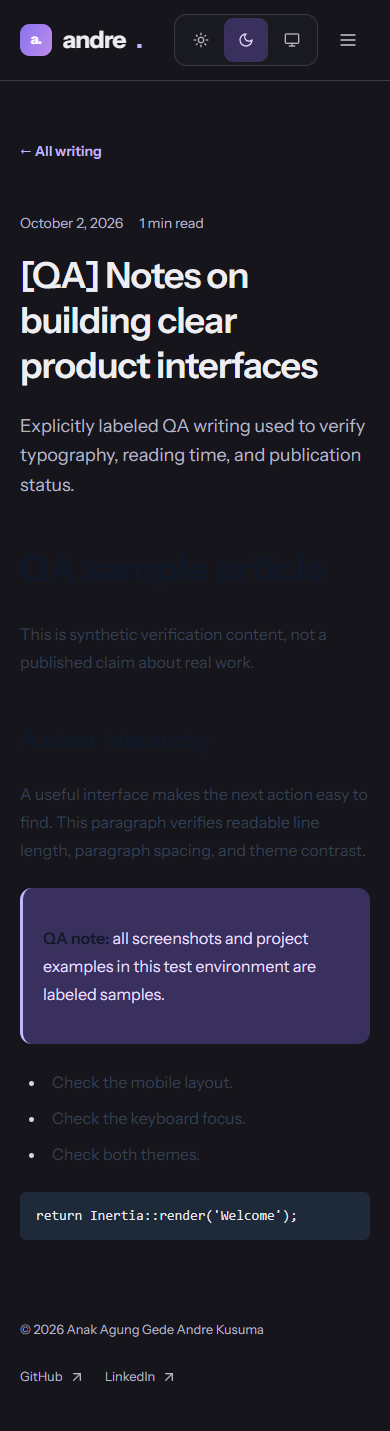
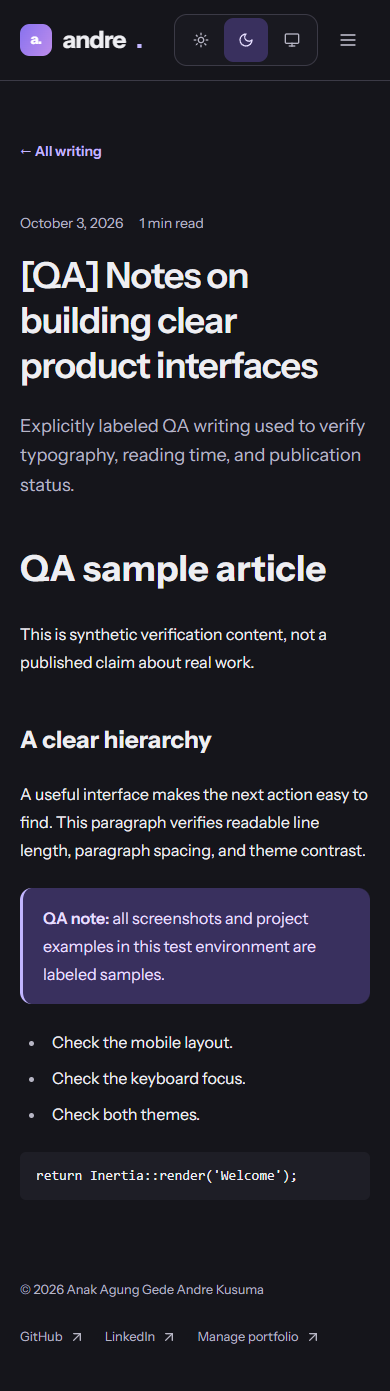
fix: correct article and editor theme contrast

diff --git a/resources/css/app.css b/resources/css/app.css
@@ -592,23 +592,35 @@
         padding: 3rem;
         border-right: 1px solid var(--outline-variant);
     }
-    .studio-prose {
-        --tw-prose-body: var(--on-surface);
-        --tw-prose-headings: var(--on-surface);
-        --tw-prose-links: var(--primary);
-        --tw-prose-bold: var(--on-surface);
-        --tw-prose-counters: var(--on-surface-variant);
-        --tw-prose-bullets: var(--on-surface-variant);
-        --tw-prose-quotes: var(--on-surface);
-        --tw-prose-quote-borders: var(--outline-variant);
-        --tw-prose-code: var(--primary);
-        --tw-prose-pre-code: var(--on-surface);
-        --tw-prose-pre-bg: var(--surface-container-low);
-        --tw-prose-th-borders: var(--outline);
-        --tw-prose-td-borders: var(--outline-variant);
-    }
+}
+/* Keep semantic typography above the typography plugin's utility layer. */
+.studio-prose {
+    --tw-prose-body: var(--on-surface);
+    --tw-prose-lead: var(--on-surface-variant);
+    --tw-prose-headings: var(--on-surface);
+    --tw-prose-links: var(--primary);
+    --tw-prose-bold: var(--on-surface);
+    --tw-prose-counters: var(--on-surface-variant);
+    --tw-prose-bullets: var(--on-surface-variant);
+    --tw-prose-quotes: var(--on-surface);
+    --tw-prose-quote-borders: var(--outline-variant);
+    --tw-prose-code: var(--primary);
+    --tw-prose-pre-code: var(--on-surface);
+    --tw-prose-pre-bg: var(--surface-container-low);
+    --tw-prose-captions: var(--on-surface-variant);
+    --tw-prose-hr: var(--outline-variant);
+    --tw-prose-th-borders: var(--outline);
+    --tw-prose-td-borders: var(--outline-variant);
 }
 .blog-callout {
+    --tw-prose-body: var(--on-primary-container);
+    --tw-prose-headings: var(--on-primary-container);
+    --tw-prose-bold: var(--on-primary-container);
+    --tw-prose-links: var(--on-primary-container);
+    --tw-prose-code: var(--on-primary-container);
+    --tw-prose-quotes: var(--on-primary-container);
+    --tw-prose-bullets: var(--on-primary-container);
+    --tw-prose-counters: var(--on-primary-container);
     margin-block: 1.5rem;
     border-left: 3px solid var(--primary);
     border-radius: 0.75rem;
@@ -617,6 +629,14 @@
     padding: 1rem 1.25rem;
 }
 .blog-callout-warning {
+    --tw-prose-body: var(--warning);
+    --tw-prose-headings: var(--warning);
+    --tw-prose-bold: var(--warning);
+    --tw-prose-links: var(--warning);
+    --tw-prose-code: var(--warning);
+    --tw-prose-quotes: var(--warning);
+    --tw-prose-bullets: var(--warning);
+    --tw-prose-counters: var(--warning);
     border-color: var(--warning);
     background: var(--warning-container);
     color: var(--warning);
@@ -652,9 +672,37 @@
     --crepe-color-background: var(--surface-container-lowest);
     --crepe-color-on-background: var(--on-surface);
     --crepe-color-surface: var(--surface-container-low);
+    --crepe-color-surface-low: var(--surface-container);
     --crepe-color-on-surface: var(--on-surface);
+    --crepe-color-on-surface-variant: var(--on-surface-variant);
     --crepe-color-primary: var(--primary);
     --crepe-color-outline: var(--outline);
+    --crepe-color-secondary: var(--primary-container);
+    --crepe-color-on-secondary: var(--on-primary-container);
+    --crepe-color-inverse: var(--surface-container-high);
+    --crepe-color-on-inverse: var(--on-surface);
+    --crepe-color-inline-code: var(--primary);
+    --crepe-color-error: var(--error);
+    --crepe-color-hover: var(--surface-container);
+    --crepe-color-selected: var(--primary-container);
+    --crepe-color-inline-area: var(--surface-container);
+    --crepe-font-title: var(--font-sans);
+    --crepe-font-default: var(--font-sans);
+    --crepe-shadow-1: var(--elevation-menu);
+    --crepe-shadow-2: var(--elevation-dialog);
+}
+.blog-editor
+    .milkdown
+    .ProseMirror
+    .blog-callout
+    :is(p, strong, em, a, code, li, h1, h2, h3, h4, blockquote) {
+    color: inherit;
+}
+.blog-callout > :first-child {
+    margin-top: 0;
+}
+.blog-callout > :last-child {
+    margin-bottom: 0;
 }
 .blog-editor .milkdown img {
     max-width: 100%;
